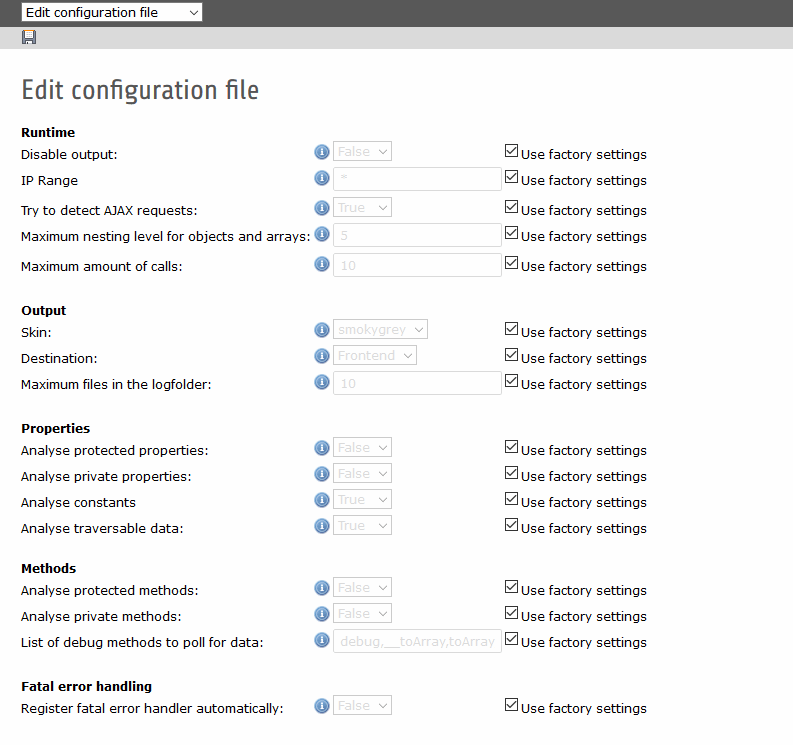
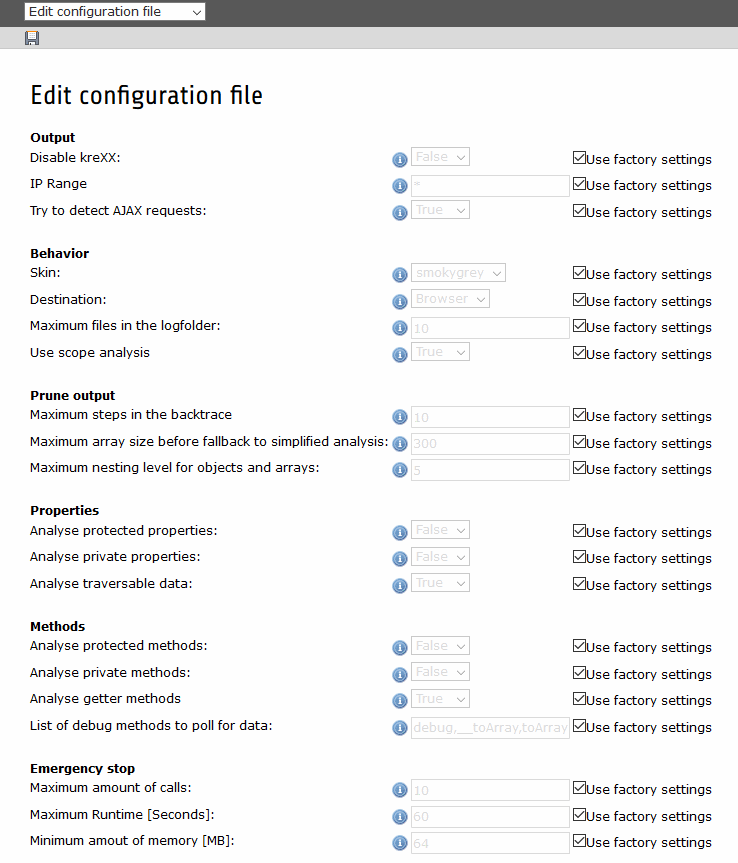
Updated the documentation part 1.

diff --git a/Documentation/Config/Options/Index.rst b/Documentation/Config/Options/Index.rst
@@ -21,10 +21,11 @@ We have provided an editor for the configuration file settings:
 
 Output
 ------
+
 +--------------------------------+----------------------------------------------------------------------------------------------------------------------------------------+---------------------------+
 | Option                         | Description                                                                                                                            | Possible values / example |
 +================================+========================================================================================================================================+===========================+
-| Disable output                 | Is kreXX actually active?                                                                                                              | - true                    |
+| Disable kreXX                  | Is kreXX actually active?                                                                                                              | - true                    |
 |                                |                                                                                                                                        | - false                   |
 |                                | Here you can disable kreXX on a global level without uninstalling it.                                                                  |                           |
 +--------------------------------+----------------------------------------------------------------------------------------------------------------------------------------+---------------------------+
@@ -32,6 +33,18 @@ Output
 |                                |                                                                                                                                        |                           |
 |                                | List of IPs who can trigger kreXX. You can do something like '192.168.1.*', but not something like '192.168.*.110'.                    |                           |
 +--------------------------------+----------------------------------------------------------------------------------------------------------------------------------------+---------------------------+
+| Try to detect AJAX requests    | Shall kreXX try to detect an AJAX request?                                                                                             | - true                    |
+|                                |                                                                                                                                        | - false                   |
+|                                | If set to true, there will be no output when AJAX is detected, to prevent a js error.                                                  |                           |
++--------------------------------+----------------------------------------------------------------------------------------------------------------------------------------+---------------------------+
+
+
+Behavior
+--------
+
++--------------------------------+----------------------------------------------------------------------------------------------------------------------------------------+---------------------------+
+| Option                         | Description                                                                                                                            | Possible values / example |
++================================+========================================================================================================================================+===========================+
 | Skin                           | You can change the CSS/HTML skin. We included the Hans and Smoky-Grey skin                                                             | - hans                    |
 |                                |                                                                                                                                        | - smoky-grey              |
 +--------------------------------+----------------------------------------------------------------------------------------------------------------------------------------+---------------------------+
@@ -40,36 +53,33 @@ Output
 +--------------------------------+----------------------------------------------------------------------------------------------------------------------------------------+---------------------------+
 | Maximum files in the logfolder | How many files should it keep? Files will only get deleted, when a new one is created.                                                 | 10                        |
 +--------------------------------+----------------------------------------------------------------------------------------------------------------------------------------+---------------------------+
+| Use scope analysis             | kreXX will analyse all values and methods that can be reached from the point where the analysis was called. This will automatically    | - true                    |
+|                                | overwrite existing configurations, it can be considered the "auto config mode".                                                        | - false                   |
++--------------------------------+----------------------------------------------------------------------------------------------------------------------------------------+---------------------------+
 
-Runtime
--------
+
+Prune output
+------------
+
 +--------------------------------+----------------------------------------------------------------------------------------------------------------------------------------+---------------------------+
 | Option                         | Description                                                                                                                            | Possible values / example |
 +================================+========================================================================================================================================+===========================+
-| Try to detect AJAX requests    | Shall kreXX try to detect an AJAX request?                                                                                             | - true                    |
-|                                |                                                                                                                                        | - false                   |
-|                                | If set to true, there will be no output when AJAX is detected, to prevent a js error.                                                  |                           |
+| Maximum steps in the backtrace | A backtrace tends to produce a lot of output, and browsers tend to have problems with more than 100MB output in HTML text.             | 10                        |
+|                                | Normally it is not unneccessary to go back more than 10 steps, but if you need to, you can increase this number here.                  |                           |
++--------------------------------+----------------------------------------------------------------------------------------------------------------------------------------+---------------------------+
+| Maximum array size before      | Huge arrays with lots of objects or other array have the tendancy to produce a lot of output. To prevent output that a browser can not | 300                       |
+| fallback to simplified         | handel, kreXX uses a simplified array analysis. Simple values will be analysed normally, objects will only display their name, key and |                           |
+| analysis                       | type.                                                                                                                                  |                           |
 +--------------------------------+----------------------------------------------------------------------------------------------------------------------------------------+---------------------------+
 | Maximum nesting level          | How deep shall we analyse objects?                                                                                                     | 5                         |
 |                                |                                                                                                                                        |                           |
 |                                | When kreXX reaches a certain level, it simply stops there and won’t go any further.                                                    |                           |
 +--------------------------------+----------------------------------------------------------------------------------------------------------------------------------------+---------------------------+
-| Maximum amount of calls        | How often can you call kreXX in one run?                                                                                               | 10                        |
-|                                |                                                                                                                                        |                           |
-|                                | kreXX can generate a lot of data, and depending on your settings increasing this number might not be a good idea.                      |                           |
-+--------------------------------+----------------------------------------------------------------------------------------------------------------------------------------+---------------------------+
-| Minimum amount of memory [MB]  | kreXX checks regularly how much memory is left. Here you can adjust the amount where it will trigger an emergency break. Unit of       | 64                        |
-|                                | measurement is MB.                                                                                                                     |                           |
-+--------------------------------+----------------------------------------------------------------------------------------------------------------------------------------+---------------------------+
-| Maximum Runtime [Seconds]      | kreXX checks during the analysis how much time has elapsed since start. Here you can adjust how many seconds can pass until an         | 60                        |
-|                                | emergency break will be triggered. Unit of measurement is seconds.                                                                     |                           |
-+--------------------------------+----------------------------------------------------------------------------------------------------------------------------------------+---------------------------+
-| Use scope analysis             | kreXX will analyse all values and methods that can be reached from the point where the analysis was called. This will automatically    | - true                    |
-|                                | overwrite existing configurations, it can be considered the "auto config mode".                                                        | - false                   |
-+--------------------------------+----------------------------------------------------------------------------------------------------------------------------------------+---------------------------+
+
 
 Properties
 ----------
+
 +--------------------------------+----------------------------------------------------------------------------------------------------------------------------------------+---------------------------+
 | Option                         | Description                                                                                                                            | Possible values / example |
 +================================+========================================================================================================================================+===========================+
@@ -84,8 +94,10 @@ Properties
 |                                |                                                                                                                                        | - false                   |
 +--------------------------------+----------------------------------------------------------------------------------------------------------------------------------------+---------------------------+
 
+
 Methods
 -------
+
 +--------------------------------+----------------------------------------------------------------------------------------------------------------------------------------+---------------------------+
 | Option                         | Description                                                                                                                            | Possible values / example |
 +================================+========================================================================================================================================+===========================+
@@ -105,15 +117,19 @@ Methods
 |                                | Comma separated list of methods. These methods are called without parameters. They also might do stuff which might be unwanted.        |                           |
 +--------------------------------+----------------------------------------------------------------------------------------------------------------------------------------+---------------------------+
 
-Prune output
-------------
+Emergency stop
+--------------
+
 +--------------------------------+----------------------------------------------------------------------------------------------------------------------------------------+---------------------------+
 | Option                         | Description                                                                                                                            | Possible values / example |
 +================================+========================================================================================================================================+===========================+
-| Maximum steps in the backtrace | A backtrace tends to produce a lot of output, and browsers tend to have problems with more than 100MB output in HTML text.             | 10                        |
-|                                | Normally it is not unneccessary to go back more than 10 steps, but if you need to, you can increase this number here.                  |                           |
+| Maximum amount of calls        | How often can you call kreXX in one run?                                                                                               | 10                        |
+|                                |                                                                                                                                        |                           |
+|                                | kreXX can generate a lot of data, and depending on your settings increasing this number might not be a good idea.                      |                           |
 +--------------------------------+----------------------------------------------------------------------------------------------------------------------------------------+---------------------------+
-| Maximum array size before      | Huge arrays with lots of objects or other array have the tendancy to produce a lot of output. To prevent output that a browser can not | 300                       |
-| fallback to simplified         | handel, kreXX uses a simplified array analysis. Simple values will be analysed normally, objects will only display their name, key and |                           |
-| analysis                       | type.                                                                                                                                  |                           |
+| Minimum amount of memory [MB]  | kreXX checks regularly how much memory is left. Here you can adjust the amount where it will trigger an emergency break. Unit of       | 64                        |
+|                                | measurement is MB.                                                                                                                     |                           |
++--------------------------------+----------------------------------------------------------------------------------------------------------------------------------------+---------------------------+
+| Maximum Runtime [Seconds]      | kreXX checks during the analysis how much time has elapsed since start. Here you can adjust how many seconds can pass until an         | 60                        |
+|                                | emergency break will be triggered. Unit of measurement is seconds.                                                                     |                           |
 +--------------------------------+----------------------------------------------------------------------------------------------------------------------------------------+---------------------------+

diff --git a/Documentation/Changelog/Index.rst b/Documentation/Changelog/Index.rst
@@ -14,20 +14,27 @@ Changelog
 
 3.0.0 dev
     - [Feature] Added 'is' and 'has' to the getter analysis.
-    - [Feature] Added half-asses plugin support, to replace the half-asses overwrites
+    - [Feature] Added plugin support, to replace the half-asses overwrites.
     - [Feature] Added a event dispatcher.
     - [Feature] Added deeper search for the source code getter analysis for better results.
     - [Feature] Added Aimeos shop debugger.
     - [Feature] Added a forced logger, which van be reached by \Krexx:log();
     - [Feature] Added a forced fluid logger, which van be reached by <krexx:log value={_all} />
     - [Feature] Added a jumpTo element after uncollapsing the breadcrumbs for better usability.
+    - [Feature] Added support for "\0" chars.
+    - [Feature] Added the count info to the traversable analysis.
+    - [Feature] Added meta data analysis to the stream resource.
     - [Change] Removed the old 4.5 compatibility.
+    - [Change] The file logger writes the logfile right after the analysis is complete.
     - [Change] Some internal renaming.
     - [Change] Removed the constants analysis configuration.
+    - [Change] Moved the bootstrapping to it's own file.
+    - [Change] Removed the annoying spaces from the generated DOM, for better copy-paste.
+    - [Change] Resorted the settings.
+    - [Change] Prettified the output of the Hans skin.
     - [Change] Moved the existing overwrites into plugins.
     - [Change] Used the introduced event system in the plugins when possible.
     - [Change] The file logger writes the logfile right after the analysis is complete.
-    - [Change] Moved the bootstrapping to it's own file.
     - [Bugfix] The position of the search field of the hans skin is now calculated correct when the viewport is not on top.
     - [Bugfix] The scroll container detection of the hans skin works now.
     - [Bugfix] Added help text for the arrayCountLimit.
@@ -43,9 +50,14 @@ Changelog
     - [Bugfix] Detect unset properties in classes.
     - [Bugfix] Added closing style tags to both skins
     - [Bugfix] Catch throwable in PHP 7.
-    - [Bugfix] Removed the annoying spaces from the hans template, so people can copy stuff better from the output.
     - [Bugfix] Added two missing translation keys.
     - [Bugfix] Added 'Krexx' with a capital 'K' to the caller finder pattern.
+    - [Bugfix] Bugfix: Prevent a possible fatal when analysing methods or closures, and the typehinted class for this parameter does not exist.
+    - [Bugfix] Bugfix: timer::moment() now disrespects the ajax or shell detection, and works better with the forced logging.
+    - [Bugfix] Bugfix: Prevent other js libraries from messing with the search form.
+    - [Bugfix] Bugfix: Prevent a fatal when trying to read the file time from a not existing file.
+    - [Bugfix] Bugfix: Prevent unnecessary width "jumping" in the Smokey Grey skin.
+    - [Bugfix] Bugfix: Resource recognition works more accurate.
 
 2.4.0
     - [Feature] Added the method analysis to the recursion detection, to prevent analysing the same methods over and over again.

diff --git a/Documentation/Features/LittleHelpers/Index.rst b/Documentation/Features/LittleHelpers/Index.rst
@@ -14,13 +14,13 @@ Little helpers
 kreXX can produce a lot of output. And when you are on the 5'th level of the 7'th object, things will get confusing and hard to read.
 To minimize confusion, the kreXX output offers two little helpers:
 
-Hide-Everything-Else
---------------------
+Code breadcrumbs
+----------------
 
 Modern frameworks tend to have complicated objects.
 Analysing them with kreXX will then produce a lot of output. And the values you are looking for might be buried in there somewhere.
 
-The Hide-Everything-Else function does exactly this: It hides all the other values, to make the output more comprehensible.
+The code breadcrumbs function does exactly this: It hides all the other values, to make the output more comprehensible.
 A click on the arrow symbol will hide all other values, except the value itself and it's child-values.
 Another click on will reset everything.
 

diff --git a/Documentation/Features/Logging/Index.rst b/Documentation/Features/Logging/Index.rst
@@ -21,8 +21,22 @@ Normally, the output of kreXX is send straight to the browser. But there are alw
 You can tell kreXX to write it's data in a file instead of trying to send it to the browser. How to do this, is explained in the chapter :ref:`config_options`.
 Just change the output option **Destination** from **Browser** to **File**.
 
-|
-|
+Alternatively, you can use the forced-logging methods:
+
+.. code-block:: php
+
+	// Force kreXX to write an analysis into a log file.
+	\Krexx::log($myObject);
+	// Force kreXX to write a backtrace into a log file
+	\Krexx::logBacktrace();
+	// Force the timer output into a log file
+	\Krexx::logTimerEnd();
+
+
+Wen using the forced logging, the following things will happen:
+
+ - Output destination is set to file by force.
+ - Ajax requests will get logged by force.
 
 kreXX will store all logfiles inside the directory
 

diff --git a/Documentation/UsagePhp/Index.rst b/Documentation/UsagePhp/Index.rst
@@ -24,22 +24,25 @@ Main analytic function
 	:width: 678px
 	:alt: analysis of an extbase query result
 
-Logging
-^^^^^^^
+Forced logging
+^^^^^^^^^^^^^^
 
 Force kreXX to write the analysis into a logfile:
 
 .. code-block:: php
 
-	\Krexx::logging($myObject);
+	// Force kreXX to write an analysis into a log file.
+	\Krexx::log($myObject);
+	// Force kreXX to write a backtrace into a log file
+	\Krexx::logBacktrace();
+	// Force the timer output into a log file
+	\Krexx::logTimerEnd();
 
 
-Description in more detail:
+Wen using the forced logging, the following things will happen:
 
- - Set destination -> file
- - Set ajaxDetection -> false
- - Analyse the object and create a logfile
- - Reset the configuration again.
+ - Output destination is set to file by force.
+ - Ajax requests will get logged by force.
 
 
 Benchmarking

diff --git a/Documentation/Plugins/Index.rst b/Documentation/Plugins/Index.rst
@@ -1,0 +1,27 @@
+.. ==================================================
+.. FOR YOUR INFORMATION
+.. --------------------------------------------------
+.. -*- coding: utf-8 -*- with BOM.
+
+.. include:: ../Includes.txt
+
+
+.. _plugins:
+
+
+Bundeled plugins
+================
+
+In kreXX v3.0.0 we've introduced a plugin system to the main library. The main goal of this was to keep the codebase better manageable.
+
+We've bundled the following plugins:
+
+.. toctree::
+   :maxdepth: 1
+   :titlesonly:
+   :glob:
+
+   Typo3/Index
+   Fluid/Index
+   Dataviewer/Index
+   Aimeos/Index

diff --git a/Documentation/Config/Frontend/Index.rst b/Documentation/Config/Frontend/Index.rst
@@ -37,6 +37,6 @@ You can change which values can be edited on the frontend. To do this, we've als
 However, the following options will never be editable on the frontend:
 
 - Output --> IP Range
-- Output --> Destination
-- Output --> Maximum files in the logfolder
+- Behavior --> Destination
+- Behavior --> Maximum files in the logfolder
 - Methods --> List of debug methods to poll for data

diff --git a/Documentation/Config/AjaxCli/Index.rst b/Documentation/Config/AjaxCli/Index.rst
@@ -32,6 +32,6 @@ If you want to debug Ajax or CLI requests, it is a good idea to use the followin
 
 Logging
 ^^^^^^^
-The logging is documented herre: :ref:`logging`. kreXX will generate one output file for every request.
+The logging is documented here: :ref:`logging`. kreXX will generate one output file for every request.
 
 |

diff --git a/Documentation/Plugins/Dataviewer/Index.rst b/Documentation/Plugins/Dataviewer/Index.rst
@@ -1,0 +1,13 @@
+.. ==================================================
+.. FOR YOUR INFORMATION
+.. --------------------------------------------------
+.. -*- coding: utf-8 -*- with BOM.
+
+.. include:: ../../Includes.txt
+
+
+.. _dataviewer:
+
+
+DataViewer fluid support
+========================

diff --git a/Documentation/Plugins/Fluid/Index.rst b/Documentation/Plugins/Fluid/Index.rst
@@ -1,0 +1,13 @@
+.. ==================================================
+.. FOR YOUR INFORMATION
+.. --------------------------------------------------
+.. -*- coding: utf-8 -*- with BOM.
+
+.. include:: ../../Includes.txt
+
+
+.. _fluid:
+
+
+Fluid code generation
+=====================

diff --git a/Documentation/Plugins/Typo3/Index.rst b/Documentation/Plugins/Typo3/Index.rst
@@ -1,0 +1,13 @@
+.. ==================================================
+.. FOR YOUR INFORMATION
+.. --------------------------------------------------
+.. -*- coding: utf-8 -*- with BOM.
+
+.. include:: ../../Includes.txt
+
+
+.. _typo3:
+
+
+TYPO3 configuration
+===================

diff --git a/Documentation/Plugins/Aimeos/Index.rst b/Documentation/Plugins/Aimeos/Index.rst
@@ -1,0 +1,13 @@
+.. ==================================================
+.. FOR YOUR INFORMATION
+.. --------------------------------------------------
+.. -*- coding: utf-8 -*- with BOM.
+
+.. include:: ../../Includes.txt
+
+
+.. _aimeos:
+
+
+Aimeos debugger
+===============
